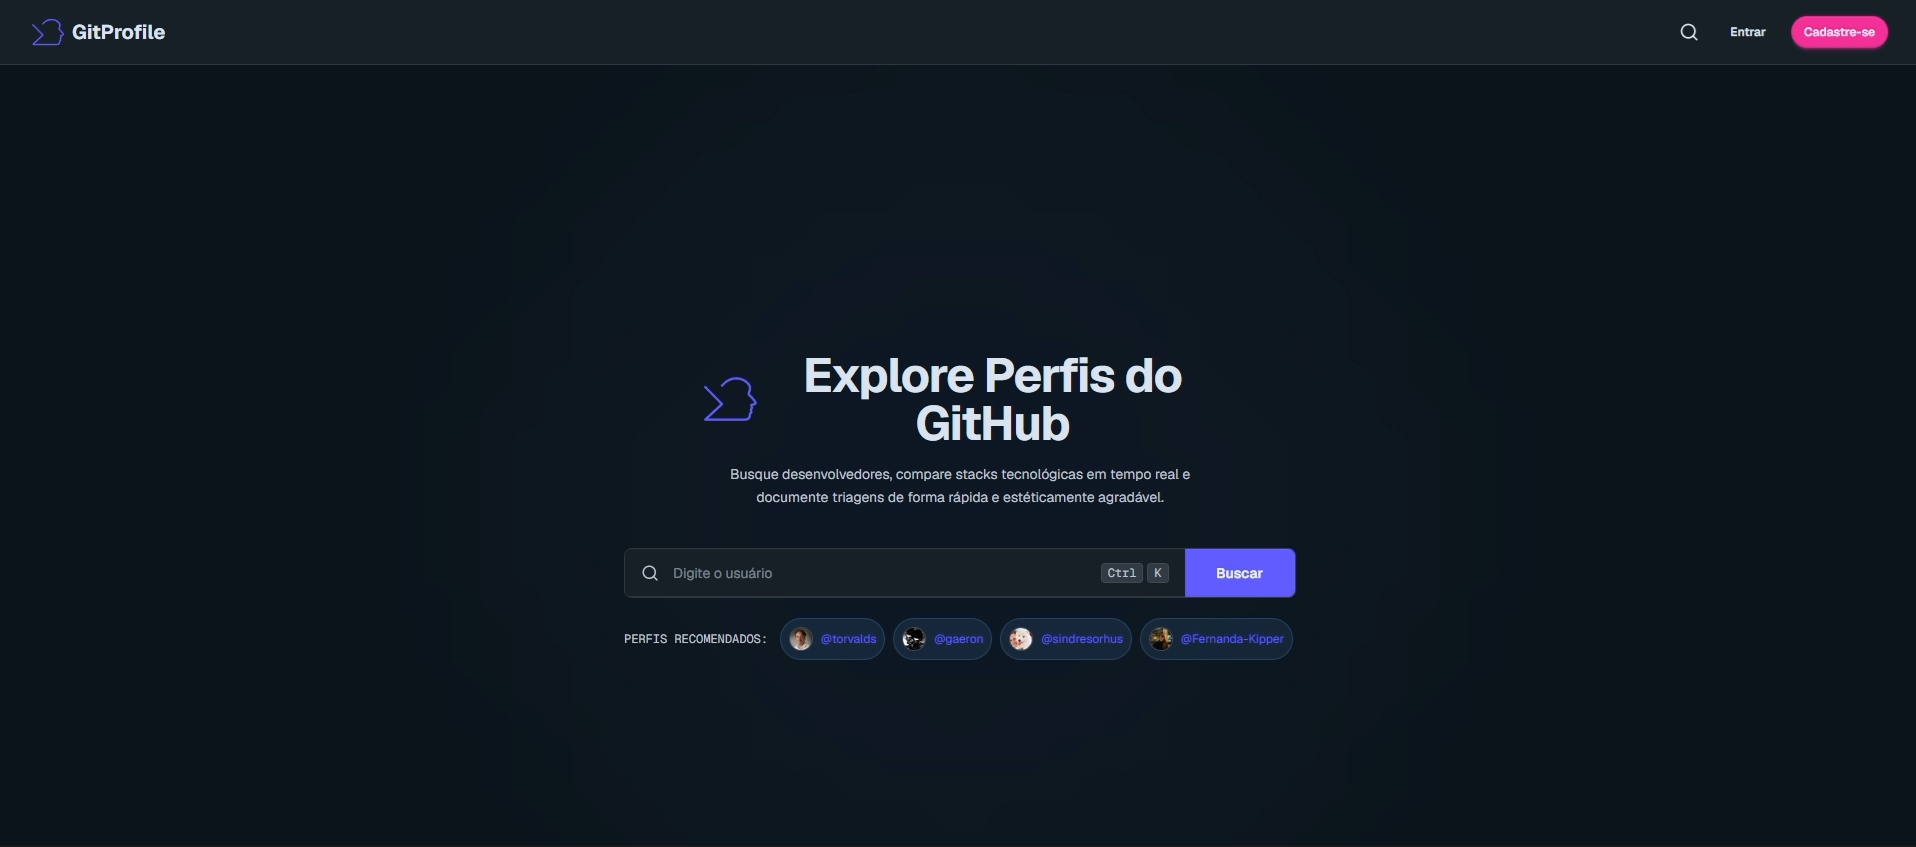
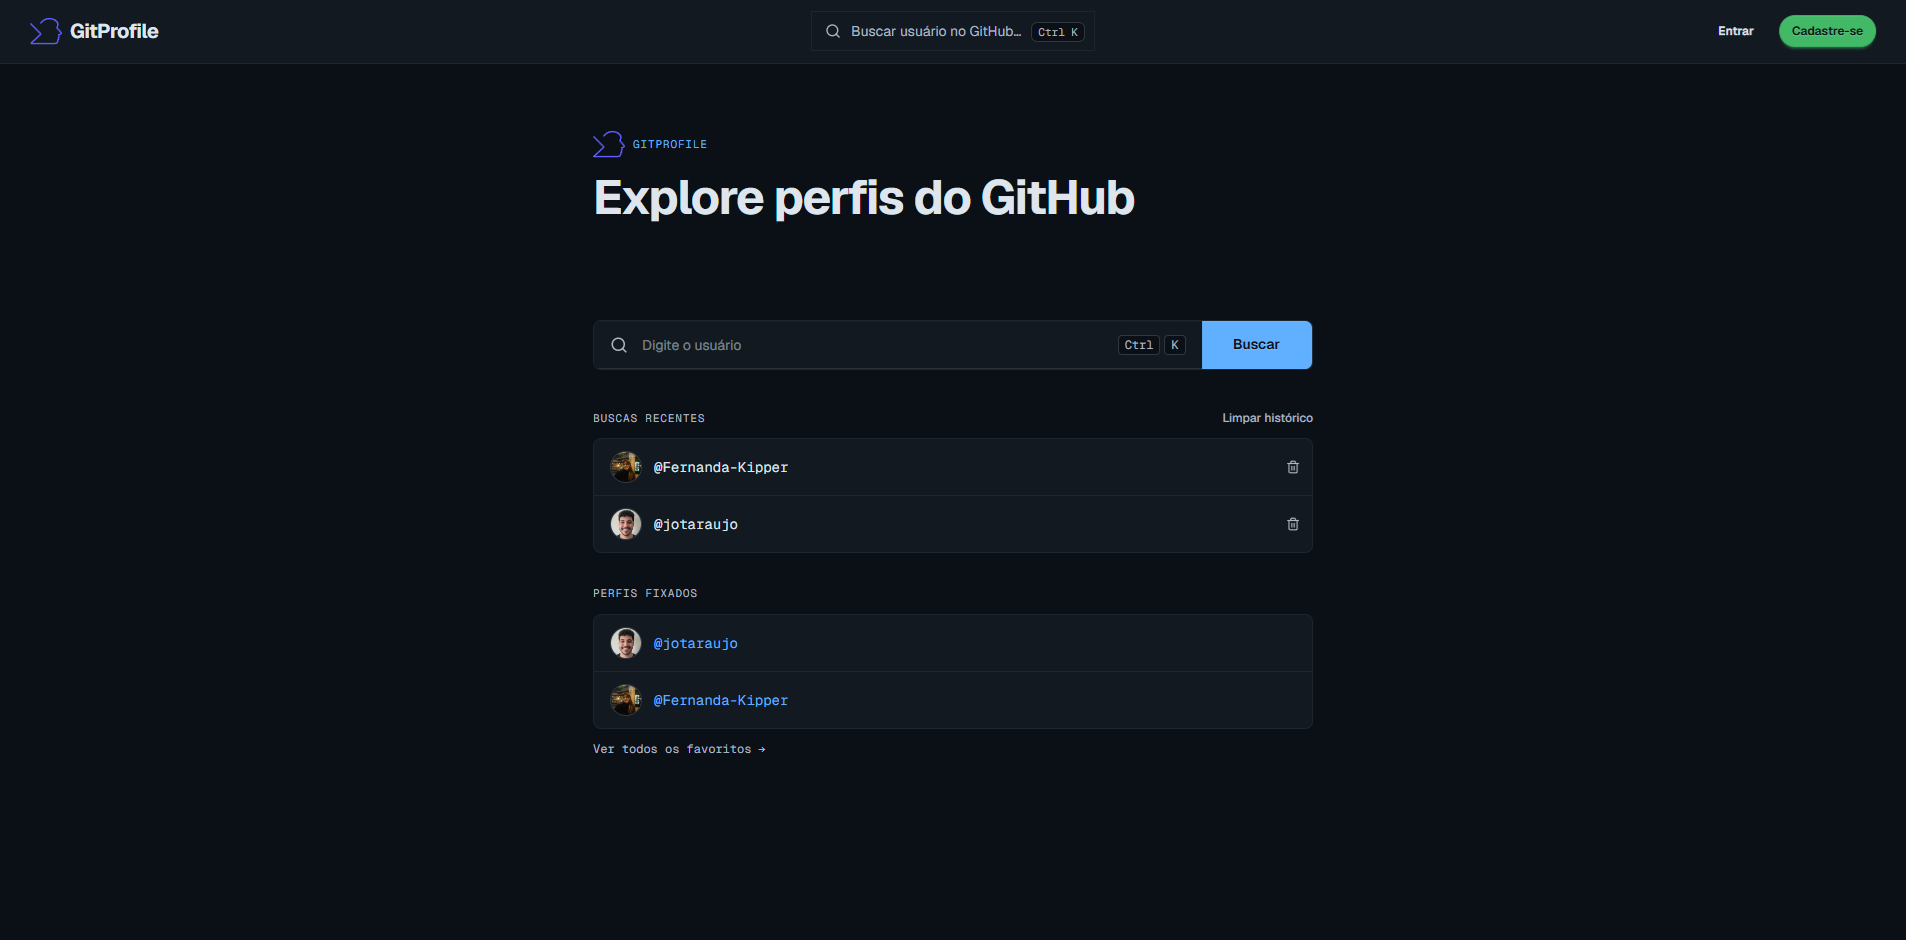
content: rewrite portfolio copy around proven delivery
- Hero: 'Frontend com motivo pra existir.' + seniority line
- Projects: prose template (overview/result) replacing bullet checklists
- About, skills, footer and meta copy aligned
- Replace project preview image

diff --git a/src/constants/projects.ts b/src/constants/projects.ts
@@ -4,11 +4,14 @@ export const PROJECTS: Project[] = [
   {
     id: 'gitprofile',
     title: 'GitProfile',
-    img: '/gitprofile.png',
-    description:
-      'Estruturei a arquitetura antes de qualquer acabamento com estado global com Zustand e cache com TanStack Query para o refinamento da UI acontecer sobre uma base sólida.',
+    subtitle: 'Plataforma de triagem de candidatos no GitHub',
+    img: '/projects/gitprofile.png',
+    overview:
+      'Recrutadores avaliam devs pelo perfil público, mas o GitHub não foi feito para triar — comparar candidatos vira um trabalho manual de abas abertas.',
+    result:
+      'Automatizo isso com auth de dois papéis, triagem por requisitos dinâmicos e comparação de stacks — no mesmo padrão de todo projeto: TypeScript strict sem erros, Conventional Commits e documentação do PRD ao DESIGN. É esse rigor que sustenta os 99/100/100 do Lighthouse, com o app em produção na Vercel.',
     featured: true,
-    tags: ['React', 'TypeScript', 'Zustand', 'TanStack Query', 'Zod','Vitest', 'Supabase'],
+    tags: ['React', 'TypeScript', 'Zustand', 'TanStack Query', 'Zod', 'Vitest', 'Supabase'],
     demoUrl: 'https://git-profile-lemon.vercel.app/',
     githubUrl: 'https://github.com/jotaraujo/GitProfile',
   },

diff --git a/src/components/layout/Projects/ProjectCard.tsx b/src/components/layout/Projects/ProjectCard.tsx
@@ -5,19 +5,25 @@ import ProjectLinks from './ProjectLinks'
 export default function ProjectCard({ project }: { project: Project }) {
 	return (
 		<div className='bg-surface border border-border rounded-lg p-6 flex flex-col gap-3 transition-[border-color,box-shadow] duration-300 hover:border-primary/40 hover:shadow-[0_0_25px_rgba(91,63,140,0.25)]'>
-			<h3 className='font-mono font-medium text-[0.9375rem] text-ink'>
-				{project.title}
-			</h3>
+			<div>
+				<h3 className='font-mono font-medium text-[0.9375rem] text-ink'>
+					{project.title}
+				</h3>
+				<p className='font-mono text-xs text-primary mt-0.5'>
+					{project.subtitle}
+				</p>
+			</div>
 			<p className='font-sans text-muted text-sm leading-relaxed'>
-				{project.description}
+				{project.overview}
+			</p>
+			<p className='font-sans text-muted text-sm leading-relaxed'>
+				{project.result}
 			</p>
 
 			<ProjectTags tags={project.tags} />
 
 			<div className='flex items-center gap-3 pt-3 border-t border-border/50 mt-auto'>
-				{project.githubUrl && (
-          <ProjectLinks githubUrl={project.githubUrl} demoUrl={project.demoUrl} />
-				)}
+				<ProjectLinks githubUrl={project.githubUrl} demoUrl={project.demoUrl} />
 			</div>
 		</div>
 	)

diff --git a/src/components/layout/Hero/HeroContent.tsx b/src/components/layout/Hero/HeroContent.tsx
@@ -29,13 +29,17 @@ export default function HeroContent() {
 				</Tag>
 
 				<h1 className='font-mono text-3xl sm:text-5xl md:text-6xl font-bold tracking-tight text-ink leading-tight'>
-					Engenharia de Interfaces <br />
-					<span className='text-primary'>Modernas &amp; Performáticas</span>
+					Frontend com <br />
+					<span className='text-primary'>motivo pra existir.</span>
 				</h1>
 
 				<p className='font-sans text-muted text-sm max-w-2xl leading-relaxed'>
-					Entrego aplicações onde organizo os componentes da base ao refinamento,
-					com foco em React/TypeScript, performance e experiência do usuário.
+					Do PRD ao deploy, sem pular etapas. Cada projeto com estrutura,
+					documentação e produção.
+				</p>
+
+				<p className='font-mono text-xs text-muted tracking-wide'>
+					Júnior · 1 ano de experiência
 				</p>
 
 				{/* CTAs */}

diff --git a/src/components/layout/Projects/FeaturedCard.tsx b/src/components/layout/Projects/FeaturedCard.tsx
@@ -9,11 +9,21 @@ export default function FeaturedCard({ project }: { project: Project }) {
 			<div className='grid grid-cols-1 md:grid-cols-2'>
 				<div className='p-6 sm:p-8'>
 					<div className='flex flex-col gap-4'>
-						<h3 className='font-mono font-medium text-lg text-ink'>
-							{project.title}
-						</h3>
+						<div>
+							<h3 className='font-mono font-medium text-lg text-ink'>
+								{project.title}
+							</h3>
+							<p className='font-mono text-xs text-primary mt-1'>
+								{project.subtitle}
+							</p>
+						</div>
+
 						<p className='font-sans text-muted text-sm leading-relaxed max-w-[65ch]'>
-							{project.description}
+							{project.overview}
+						</p>
+
+						<p className='font-sans text-muted text-sm leading-relaxed max-w-[65ch]'>
+							{project.result}
 						</p>
 
 						<ProjectTags tags={project.tags} />

diff --git a/index.html b/index.html
@@ -4,8 +4,8 @@
     <meta charset="UTF-8" />
     <link rel="icon" type="image/svg+xml" href="/favicon.svg" />
     <meta name="viewport" content="width=device-width, initial-scale=1.0" />
-    <title>JotaDev — Engenharia de Interfaces</title>
-    <meta name="description" content="Portfolio de engenharia frontend por João Paulo Araújo. Desenvolvido com React, TypeScript e TailwindCSS." />
+    <title>JotaDev — Frontend com motivo pra existir</title>
+    <meta name="description" content="Portfólio de João Paulo Araújo, frontend developer júnior (1 ano). Projetos do PRD ao deploy: TypeScript strict, testes, documentação e produção — com código público." />
   </head>
   <body class="bg-base text-ink antialiased">
     <div id="root"></div>

diff --git a/src/components/layout/About/index.tsx b/src/components/layout/About/index.tsx
@@ -40,6 +40,11 @@ export default function About() {
               refinada em seguida, peça por peça, até cada componente ter um
               motivo pra existir.
             </p>
+            <p className="font-sans text-muted leading-relaxed max-w-[65ch] mt-4">
+              Um ano de frontend, e a disciplina de quem constrói pra ser
+              verificado: cada projeto sai do PRD, passa por código strict,
+              testes e documentação, e chega em produção.
+            </p>
           </Reveal>
 
           <Reveal direction="up" delay={0.15}>

diff --git a/src/components/layout/Footer.tsx b/src/components/layout/Footer.tsx
@@ -32,8 +32,8 @@ export default function Footer() {
 						>
 							jota<span className='text-primary'>.dev</span>
 						</a>
-						<p className='font-sans text-xs text-muted max-w-[20ch] leading-relaxed'>
-							Engenharia de interfaces
+						<p className='font-sans text-xs text-muted max-w-[30ch] leading-relaxed'>
+							Frontend com motivo para existir.
 						</p>
 					</div>
 

diff --git a/src/types/index.ts b/src/types/index.ts
@@ -6,8 +6,10 @@ export interface NavLink {
 export interface Project {
 	id: string
 	title: string
+	subtitle: string
 	img?: string
-	description: string
+	overview: string
+	result: string
 	featured: boolean
 	tags: string[]
 	demoUrl: string | null
